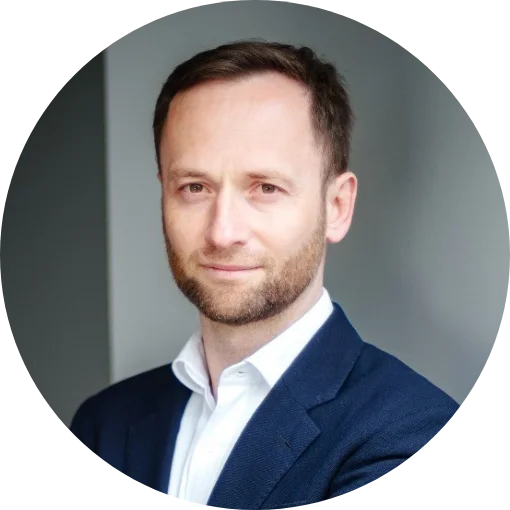
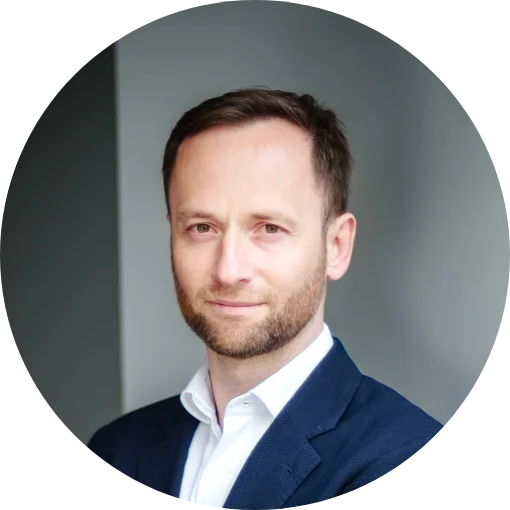
Konference update

diff --git a/konference/2026/index.html b/konference/2026/index.html
@@ -108,7 +108,7 @@ lang: cs
           <b>Aktuální výzvy Data Governance a Data Management Body of Knowledge:</b> Martin Bém, DAMA Czech Republic<br>
           <b>Sémantická datová interoperabilita v EU:</b> Jakub Klímek, SEMIC<br>
           <b>Zákon o správě dat – přichází nová éra v přístupu k datům státu?:</b> Lenka Kubáňová, Digitální a informační agentura<br>
-          <b>Využití dat v procesu RIA:</b> Petr Bouchal, Vládní analytický útvar Úřadu vlády ČR</div>
+          <b>Druhý život státních dat: co díky nim víme a co tomu (ne)pomáhá:</b> Petr Bouchal, Vládní analytický útvar Úřadu vlády ČR</div>
         </div>
       </div>
 
@@ -233,19 +233,29 @@ lang: cs
 
 
 <!-- LUCIE ZAPLETALOVÁ -->
+<div style="display: flex; gap: 16px; padding: 12px 12px; align-items: center; border-bottom: 1px solid #e0e0e0; background-color: transparent;">
+  <div style="flex: 0 0 200px; width: 200px; height: 200px; display: flex; justify-content: center; align-items: center;">
+    <img src="https://data.gov.cz/přílohy/konference/2026/spíkři/Zapletalová.webp" alt="Lucie Zapletalová" style="width: 150px; height: 150px; object-fit: cover;"/>
+  </div>
+  <div style="flex: 1; text-align: left; color: #000000 ;">
+    <b>Lucie Zapletalová</b>
+   <br>
+   Pracuje v oblasti identifikace a měření dopadů veřejných politik ve Vládním analytickém útvaru Úřadu vlády ČR a je předsedkyní Komise RIA při Legislativní radě vlády. Vystudovala ekonomii na CERGE-EI a sociologii a sociální politiku na Fakultě sociálních věd Univerzity Karlovy. Podílela se na řadě analýz pro veřejný i akademický sektor.
+    </div>
+</div>
 
 
 <!-- LUKÁŠ KAČENA -->
-<!-- div style="display: flex; gap: 16px; padding: 12px 12px; align-items: center; border-bottom: 1px solid #e0e0e0; background-color: transparent;">
+<div style="display: flex; gap: 16px; padding: 12px 12px; align-items: center; border-bottom: 1px solid #e0e0e0; background-color: transparent;">
   <div style="flex: 0 0 200px; width: 200px; height: 200px; display: flex; justify-content: center; align-items: center;">
     <img src="https://data.gov.cz/přílohy/konference/2026/spíkři/Kačena.webp" alt="Lukáš Kačena" style="width: 150px; height: 150px; object-fit: cover;"/>
   </div>
   <div style="flex: 1; text-align: left; color: #000000 ;">
     <b>Lukáš Kačena</b>
    <br>
-      Lukáš Kačena je od roku 2026 vládním zmocněncem pro AI na Ministerstvo průmyslu a obchodu. Od dubna 2022 byl ředitelem prg.ai. Vystudoval Fakultu sociálních věd Univerzity Karlovy a svou kariéru zahájil v poradenské společnosti Ernst & Young. V letech 2015 až 2017 působil jako ředitel sekce rozvoje a řízení programů v Technologické agentuře ČR. Byl zodpovědný především za přípravu nových programů podpory aplikovaného výzkumu, vývoje a inovací a jejich hodnocení. Před nástupem do společnosti prg.ai působil jako nezávislý konzultant v oblasti veřejné správy.
+      Od roku 2026 je vládním zmocněncem pro AI na Ministerstvo průmyslu a obchodu. Od dubna 2022 byl ředitelem prg.ai. Vystudoval Fakultu sociálních věd Univerzity Karlovy a svou kariéru zahájil v poradenské společnosti Ernst & Young. V letech 2015 až 2017 působil jako ředitel sekce rozvoje a řízení programů v Technologické agentuře ČR. Byl zodpovědný především za přípravu nových programů podpory aplikovaného výzkumu, vývoje a inovací a jejich hodnocení. Před nástupem do společnosti prg.ai působil jako nezávislý konzultant v oblasti veřejné správy.
   </div>
-</div -->
+</div>
 
 
 
@@ -320,7 +330,17 @@ lang: cs
 
 
 <!-- PETR BOUCHAL -->
+<div style="display: flex; gap: 16px; padding: 12px 12px; align-items: center; border-bottom: 1px solid #e0e0e0; background-color: transparent;">
+  <div style="flex: 0 0 200px; width: 200px; height: 200px; display: flex; justify-content: center; align-items: center;">
+    <img src="https://data.gov.cz/přílohy/konference/2026/spíkři/Bouchal.webp" alt="Petr Bouchal" style="width: 150px; height: 150px; object-fit: cover;"/>
+  </div>
+  <div style="flex: 1; text-align: left; color: #000000 ;">
+    <b>Petr Bouchal</b>
+   <br>
+   Ve Vládním analytickém útvaru Úřadu vlády ČR vede oddělení datové vědy a modelování, kde řídil projekty s využitím administrativních mikrodat mj. v oblasti zaměstnanosti ve veřejné správě. Podílel se na RIA k zákonu o řízeném přístupu k datům. Vedl analytické týmy ve veřejné správě, neziskovém i soukromém sektoru. Vystudoval společenské vědy na Oxfordu a na Tufts University v USA.
 
+  </div>
+</div>
 
 
   <!-- ALICE BINDEROVÁ -->